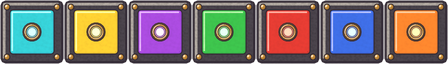
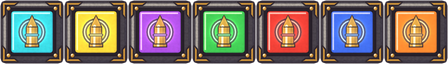
Replace v0.1 art with the v03 gothic render.
File names, sizes and frame order stay the same. The ship content box is now x 170–1487, which the layout reads from alus_oma.json.

diff --git a/src/shared/sections.test.ts b/src/shared/sections.test.ts
@@ -15,7 +15,7 @@ describe("ship layout", () => {
     assert.equal(FLOOR_Y.ala, json.lattia_y.ala);
     assert.equal(FLOOR_Y.yla, 366);
     assert.equal(FLOOR_Y.ala, 544);
-    assert.deepEqual(json.sisalto_bbox, [169, 4, 1489, 686]);
+    assert.deepEqual(json.sisalto_bbox, [170, 4, 1487, 686]);
     assert.ok(SECTIONS.reaktori.hitY0 > SECTIONS.reaktori.y0);
     assert.ok(SECTIONS.aseet.hitY0 > SECTIONS.aseet.y0);
     assert.ok(SECTIONS.sensorit.hitY0 > SECTIONS.sensorit.y0);

diff --git a/assets/v01/LUEMINUT.md b/assets/v01/LUEMINUT.md
@@ -1,10 +1,84 @@
-# Kosmoskaappari v0.2 — 3D-grafiikka (2.5D)
+# Kosmoskaappari v0.3 — 3D-grafiikka (2.5D)
+
+## Muutokset v0.2 → v0.3 (lyhyesti)
+
+- **Koordinaatit ennallaan:** tiedostonimet, pikselikoot, sheet-järjestykset, lattiat (y = 366 / 544), huoneiden x/y-välit, energiapalkin sisäalue (x=10, y=6, 236×20) ja merirosvojen jalkarivi (y = 124) ovat samat. `alus_oma.json` generoidaan uudelleen, ja ainoa muuttunut arvo on `sisalto_bbox` = [170, 4, 1487, 686] (renderöity sisältö pysyy rajauksen x 169…1489 sisällä).
+- **Oma alus:** jokaisella huoneella on oma seinäsävy ja oma valo:
+  - reaktori: vihreä
+  - aseet: punaruskea
+  - sensorit: meripihka
+  - ohjaus: teräksensininen
+  - korjaamo: tuli-oranssi
+  - suojakilpi: sininen
+
+  Lisäksi alus sai paljon uutta detaljia:
+  - Huoneiden välissä on vahvat pilariväliseinät, joissa on messinkikapiteelit, jalustat, niitit ja kallokynttilät.
+  - Kaarissa on krabbikoristeet, messinkiset lakikivet ja kallot.
+  - Katossa riippuu ketjulyhtyjä ja roikkuvia kaapeleita, ja alakannella kulkee kattoputkisto, jossa on venttiilipyörät.
+  - Lattialla on kynttiläryppäitä. Korjaamossa on hiilipannu, sensoreissa kallohylly ja reaktorissa varoitusvalot.
+  - Rungon vatsassa on goottiarkadi.
+  - Keulassa on kallokynttilät ja piikit, ja perässä pakosarjat.
+
+  Valaistusta ja syvyyttä on parannettu:
+  - syvyysusva (sävyttää kaukaisia osia)
+  - huonekohtainen säteittäinen valo ja yläosan usva
+  - vinjetti ja reunavalo
+
+  Keulan kalloviiri poistettiin, koska se jäi tykin taakse.
+- **Merirosvot:**
+  - Kapteenilla on isompi kaksikärkihattu, jossa on punainen töyhtö ja kallomerkki. Mekaaninen kynsikoura on isompi ja sormet on nivelletty. Lisäksi hänellä on hengityssuojain isoin punaisin linssein, letku ja paineilmasäiliö selässä sekä roikkuva punainen vyönauha.
+  - Miehistöläisellä on isompi kynttiläliekki, isommat vihreät suojalasit, hulmuava huivi, reppu, jossa on käämi ja antenni, järeämpi mekaaninen sääri ja isompi jakoavain.
+  - Kävely:
+    - takinhelmat ja kädet jäävät vaiheessa jälkeen (overlap ja follow-through)
+    - kyynärpäät viivästyvät ja lantio kiertyy ja kallistuu
+    - selkä nojaa eteen, pää nyökkää ja kääntyy vastaliikkeessä
+    - vyönauha ja huivi hulmuavat, ja liekki kallistuu
+  - Idle:
+    - painonsiirto, hengitys rintakehässä ja pää katselee ympärilleen
+    - kapteeni koukistaa nostettua kouraansa
+    - miehistöläinen napauttaa jakoavaimella, ja liekki lepattaa
+- **Vihollinen:**
+  - tummemmat levyt ja punainen reunavalo
+  - toinen tykkikansi (yhteensä 10 laitatykkiä), kaksoistorni ja keulatykki
+  - sahalaitainen, isompi puskukärki
+  - kaksi punaisena hehkuvaa "silmäikkunaa" kulmakarvoineen
+  - isompi kallokeulakuva hehkuvin silmin
+  - kaide-, linna- ja köliterät sekä moottorisavu
+- **Kiteet:** jokaiselle on oma ääriviivaväri (värillinen muste), kiillot ja tähtikimallukset. Värit on hajautettu sekä sävyssä että valoisuudessa. Keskimääräiset luminanssit (0–255):
+
+  | Kide | Väri | Luminanssi |
+  |---|---|---|
+  | 1 | punainen | 103 |
+  | 2 | oranssi | 151 |
+  | 3 | keltainen | 226 |
+  | 4 | vihreä | 184 |
+  | 5 | sininen | 84 |
+  | 6 | violetti | 135 |
+
+  Muodot ovat samat kuin ennen.
+- **Ammuspalat:** jokaisessa palassa on goottilaiset messinkikulmat, tumma sisäkehys, värillinen emali, hehkurengas ja messinkinen patruunaembleemi.
+- **Räjähdys:**
+  - Ruuduissa 1–2 on paineaaltorenkaat, kipinäsäteet ja hehkuvat sirpaleet.
+  - Savuruudussa on hiillos.
+- **Laser:**
+  - kerroksellinen oranssi usva, kultainen runko ja valkoinen ydin
+  - kärkitähti ja jäljessä kipinät
+- **Kilpiosuma:**
+  - kuusikulmiokennosto
+  - katkonaiset kaaret ja sähkösäröt
+  - kipinät ja iskurengas
+  - puoliksi läpinäkyvä sininen keskusta
+- **UI:**
+  - Energiapalkin kehyksessä on messinkiset suippopäädyt, goottikulmat, punaiset jalokivinastat ja niitit.
+  - Energiapalkin täytteessä on solujakajat ja kiiltoraita.
+  - Napeissa on kaksoismessinkireunus, goottikulmat, kaarikoristeet ja niittirivit.
+  - Painettu nappi on uponnut ja tummempi. Siinä on käänteinen viiste, sisävarjo ja hehkuva messinkiääriviiva, joten se erottuu selvästi.
 
 Tyyli: konsepti `konseptit/40k/konsepti_40k_1_goottinen_synkka.jpg` (goottilainen ja synkkä rautakatedraali-avaruusmerirosvo) tehtynä oikeina 3D-malleina ja renderöitynä PNG:ksi Dead Cells / Cult of the Lamb -tyyliin. Renderöinti: Blender 5.3 (pip `bpy`, headless) + Cycles. Varjostin on oma cel/toon-ryhmä: kolme valokaistaa kiinteästä valosuunnasta, AO-tummennus, kiiltokaista metalleille, sinertävä reunavalo ja likakohina. Ääriviivat tulevat Freestylestä, ja hehkuvat osat saavat erillisen hehkupassin, joka sumennetaan päälle. Renderöinti tehdään 2× tai 4× koossa ja skaalataan alas, mikä antaa antialiasoinnin.
 
 Kuvissa ei ole tekstejä, Warhammer-symboleja eikä brändilogoja. Ainoat tunnukset ovat tavallisia merirosvokalloja ja sääriluita.
 
-Kaikki tiedostonimet, pikselikoot ja ruutujärjestykset ovat samat kuin v01:ssä, joten kansion voi vaihtaa suoraan. Kaikki PNG:t ovat RGBA-muotoisia ja niissä on läpinäkyvä tausta.
+Kaikki tiedostonimet, pikselikoot ja ruutujärjestykset ovat samat kuin v01:ssä ja v02_3d:ssä, joten kansion voi vaihtaa suoraan. Kaikki PNG:t ovat RGBA-muotoisia ja niissä on läpinäkyvä tausta.
 
 ## Alukset
 
@@ -13,13 +87,13 @@ Kaikki tiedostonimet, pikselikoot ja ruutujärjestykset ovat samat kuin v01:ssä
   - Alakannen katto on y = 403 (kansien välinen palkki on y = 366…403).
   - Huoneiden x-välit ovat samat kuin v01:ssä (seinälinjojen keskeltä mitattuna):
     - **reaktori**: x=[438, 697], y=[138, 366], yläkansi. Vihreä reaktori häkissä, putket ja mittarit.
-    - **aseet**: x=[697, 991], y=[198, 366], yläkansi. Iso tykki lavetilla ja kuulat. Katolla masto ja kallopurje.
+    - **aseet**: x=[697, 991], y=[198, 366], yläkansi. Iso tykki lavetilla ja kuulat. Katolla masto ja kallopurje. Seinät ovat punaruskeat.
     - **sensorit**: x=[991, 1237], y=[59, 366], yläkansi. Ruusuikkuna, kaksi meripihkanäyttöistä konsolia, ruori ja kaukoputki.
     - **ohjaus**: x=[438, 697], y=[403, 544], alakansi. Ammeohjaamo, jossa on ohjaussauva, vihreä näyttö ja kynttelikkö.
     - **korjaamo**: x=[697, 991], y=[403, 544], alakansi. Työpöytä, punainen työkalulaatikko, alasin, ketju ja hammasratas.
     - **suojakilpi**: x=[991, 1237], y=[403, 544], alakansi. Sininen kilpipallo ja kaksi teslapylvästä salamoineen.
   - Yläkannen huoneiden `y[0]` on goottikaaren sisähuippu. Kaari laskeutuu seiniä kohti, ja kaaren jalka on reaktorissa y ≈ 220, aseissa y ≈ 245 ja sensoreissa y ≈ 150.
-  - Sisällön bbox on `[169, 4, 1489, 686]`. Se on leveämpi kuin v01:ssä, koska mukana ovat keulan torni ja moottorin liekit.
+  - Sisällön bbox on `[170, 4, 1487, 686]`. Kaikki renderöity sisältö on rajattu välille x 169…1489. Bbox on leveämpi kuin v01:ssä, koska mukana ovat keulan torni ja moottorin liekit.
 - `alus_oma.json` noudattaa samaa skeemaa kuin v01, todellisin arvoin. Lisäkenttänä on `px_per_yksikko`.
 - `alus_vihollinen.png`, 900×500. Goottilainen korsaari, keula oikealle. Kevyt 3/4-kulma (kamera kääntyy 16° ja kallistuu 9° alaspäin) ortokameralla, kokonainen siluetti. Mukana punaisina hehkuvat goottilaiset ikkunat, viiden tykin laita, keulatykki, piikkikärki, kallokeulakuva, punamusta kallopurje ja kaksi perämoottoria.
 
@@ -86,15 +160,15 @@ Rautalaatta, jossa on messinkiniitit, värillinen emalipinta ja hehkuva keskinas
 
 ## Lähteet ja uudelleenrenderöinti: `lahde/`
 
-- `yhteiset.py`: toon-varjostin, Freestyle-ääriviivat, mesh-rakentaja (laatikot, lieriöt, kuoret, profiilipuristus, suippokaaret, kallo), renderöinti ja hehkukomposiitti.
+- `yhteiset.py`: toon-varjostin, Freestyle-ääriviivat, mesh-rakentaja (laatikot, lieriöt, kuoret, profiilipuristus, suippokaaret, kallo, ketjukaari `catenary`, x-rajaus `clamp_x`), syvyysusva (`toon_set(fog=...)`), renderöinti ja hehkukomposiitti.
 - `rakenna_alus_oma.py`: tuottaa `alus_oma.blend`, `alus_oma.png` ja `alus_oma.json`.
 - `rakenna_vihollinen.py`: tuottaa `alus_vihollinen.blend` ja `alus_vihollinen.png`.
 - `rakenna_merirosvot.py [1|2]`: tuottaa `merirosvo1.blend`, `merirosvo2.blend` (nivelet ja keyframet) ja sheetit.
   - Uuden animaation saa lisäämällä `set_pose()`-funktioon uuden tilan, esim. `"attack"`, ja renderöimällä samalla kameralla.
 - `rakenna_esineet.py [kristallit ammukset palkki napit rajahdys]`: tuottaa .blend-tiedostot ja PNG:t.
 - `efektit_2d.py`: laser ja kilpiosuma (Pillow).
-- `kokoa.py`: kokotarkistus ja esikatselu `../../v02_3d_esikatselu.png`.
-- `renderoi_kaikki.sh`: ajaa kaiken (noin 3 min 8 ytimellä).
+- `kokoa.py`: kokotarkistus ja esikatselu `../../v03_3d_esikatselu.png`.
+- `renderoi_kaikki.sh`: ajaa kaiken (noin 3 min 8 ytimellä): `cd lahde && ./renderoi_kaikki.sh`.
 
 Ympäristö: `python3 -m venv /workspace/.bpyvenv && /workspace/.bpyvenv/bin/pip install bpy==5.3.0 numpy pillow`. Tarvitaan Python 3.13, eikä GPU:ta tarvita, koska Cycles toimii CPU:lla.
 
@@ -104,6 +178,10 @@ Ympäristö: `python3 -m venv /workspace/.bpyvenv && /workspace/.bpyvenv/bin/pip
 
 - Oman aluksen yläkannen kaaret ovat matalia suippokaaria, jotta huoneiden korkeudet (y-arvot) pysyvät v01:n mukaisina.
 - Aluksen ulkosilhuetti on hieman leveämpi kuin v01:ssä (bbox x 169…1489), mutta huoneet ja lattiat ovat täsmälleen samoissa kohdissa.
-- Merirosvojen idle-pomppu on pieni (pää ei liiku ylös ja alas, vain kädet, pää ja polvet liikkuvat). Kävelyssä pää liikkuu noin 4 px.
+- Merirosvojen idle on 4 ruudun mittainen, joten liike on pieni (hengitys, katse, koura/jakoavain). Kävelyssä pää liikkuu noin 4–6 px.
+- Saappaissa voi näkyä yksittäisessä kävelyruudussa harmaampi valokaista, koska cel-kaista vaihtuu jalan kulman mukaan.
+- Oranssin ja vihreän kiteen valoisuus on lähellä toisiaan (151 / 184), mutta niiden sävyero on suuri. Punainen ja sininen erottuvat sävyn lisäksi muodoltaan.
+- Huonevalot, usva ja vinjetti ovat 2D-jälkikäsittelyä alusrenderöinnin päällä (`room_lights()` tiedostossa `rakenna_alus_oma.py`). Ne on rajattu kunkin huoneen alueelle.
+- Puhelinkoko on tarkistettu 0.5×-alasskaalauksella: huoneet, hahmot ja vihollisen siluetti erottuvat. Pienimmät detaljit (niitit, kynttilät) sulautuvat tekstuuriksi.
 - Laser ja kilpiosuma ovat 2D-komposiitteja (tehty samaan cel- ja hehkutyyliin). Muut assetit on renderöity 3D:stä.
 - Energiapalkin täytteen reunat on rajattu tarkasti suorakaiteeseen, joten hehku ei vuoda kehyksen alle.
